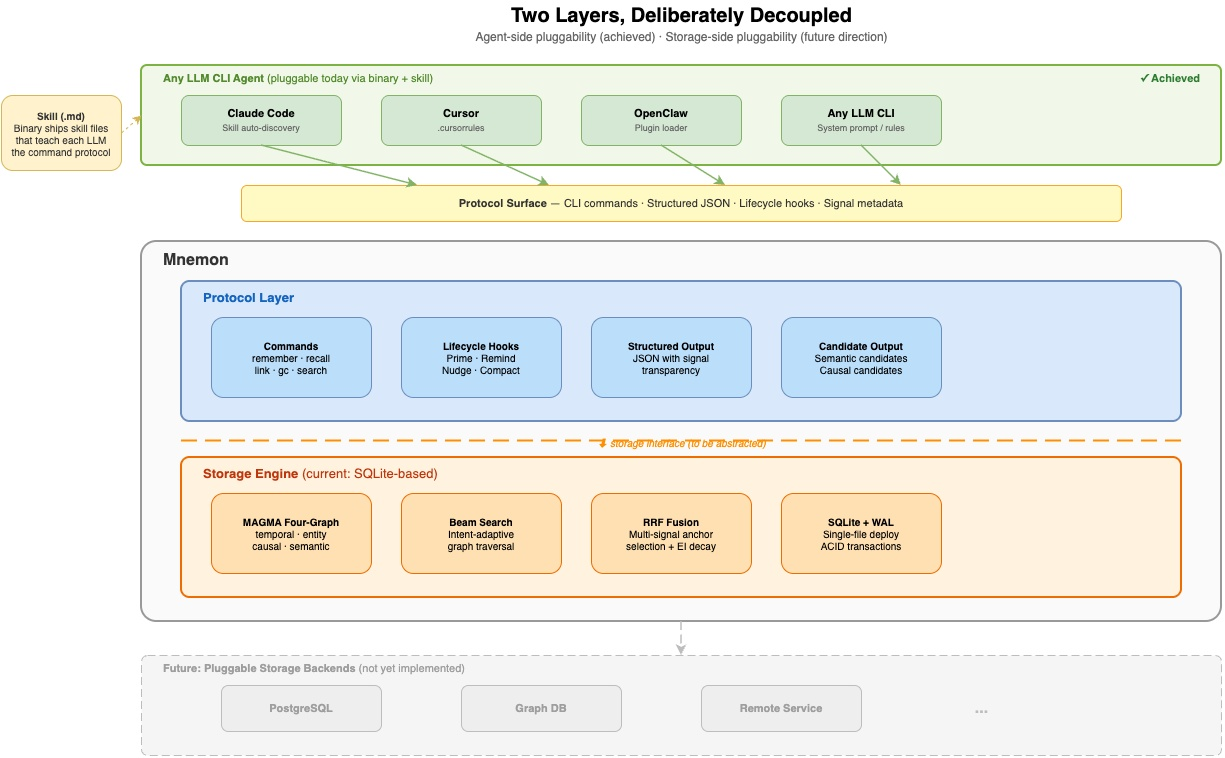
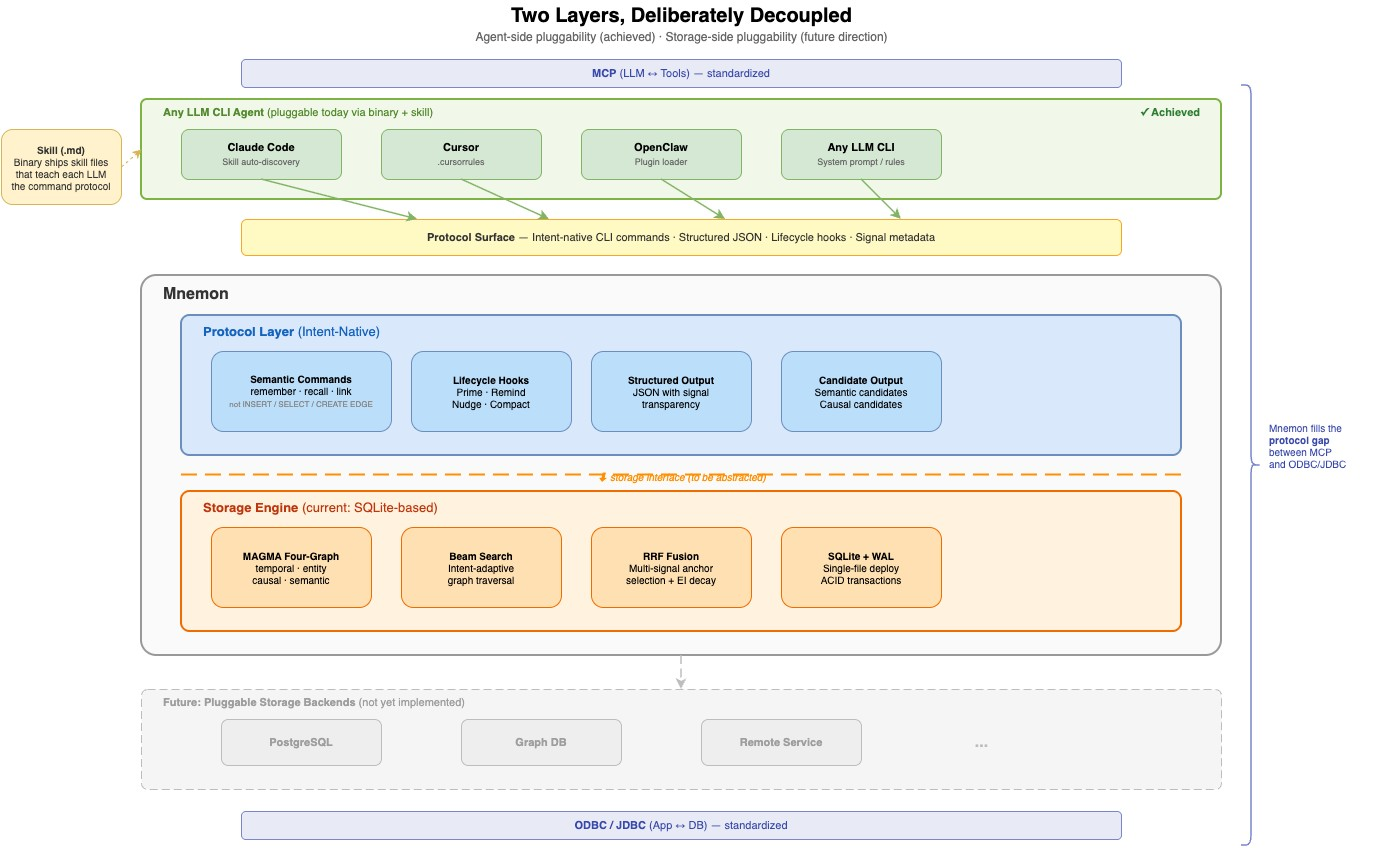
docs: replace memcp with Claude Code Memory in comparisons, update architecture diagram
- §1.5: replace MemCP column with Claude Code Memory (CLAUDE.md file
  injection), add Retrieval dimension row
- §2.1: add File Injection pattern row for Claude Code CLAUDE.md
  (keep MemCP as MCP Server representative)
- §4 & §8: replace memcp with CC Mem in protocol gap analysis and
  ASCII diagrams
- Diagram: add MCP/ODBC protocol stack context, intent-native
  annotations, protocol gap brace; export updated JPG

diff --git a/docs/design/01-vision.md b/docs/design/01-vision.md
@@ -38,11 +38,12 @@ It is not a library or plugin embedded within an agent framework, but a standalo
 
 ## 1.5 Comparison with Alternatives
 
-| Dimension | Mem0 | Letta/MemGPT | MemCP | **Mnemon** |
-|-----------|------|-------------|-------|-----------|
-| **Architecture** | SDK embedded in call chain | Within agent framework | MCP Plugin | Standalone Binary |
-| **LLM Role** | Internal extraction function | Agent self-managed | Sub-agent orchestration | External supervisor |
-| **Graph** | Neo4j single relation edges | None | MAGMA four-graph | MAGMA four-graph |
+| Dimension | Mem0 | Letta/MemGPT | Claude Code Memory | **Mnemon** |
+|-----------|------|-------------|-------------------|-----------|
+| **Architecture** | SDK embedded in call chain | Within agent framework | CLAUDE.md file injection | Standalone Binary |
+| **LLM Role** | Internal extraction function | Agent self-managed | None (static file load) | External supervisor |
+| **Graph** | Neo4j single relation edges | None | None | MAGMA four-graph |
+| **Retrieval** | Vector similarity | Vector similarity | Full-text loaded into context | Intent-adaptive multi-signal fusion |
 | **External Deps** | PostgreSQL + LLM API | PostgreSQL + LLM API | None | None |
-| **LLM Swappable** | Tied to OpenAI | Tied to framework | Tied to Claude Code | Any LLM CLI |
-| **Memory Lifecycle** | Rules engine | No built-in decay | 3-zone (Active/Archive/Purge) | EI decay + GC + immunity |
+| **LLM Swappable** | Tied to OpenAI | Tied to framework | Claude Code only | Any LLM CLI |
+| **Memory Lifecycle** | Rules engine | No built-in decay | Manual / auto-append | EI decay + GC + immunity |

diff --git a/docs/zh/design/01-vision.md b/docs/zh/design/01-vision.md
@@ -38,11 +38,12 @@ Mnemon 的目标是：**让 LLM 像有经验的助手一样，记住你的决策
 
 ### 1.5 方案对比
 
-| 维度 | Mem0 | Letta/MemGPT | MemCP | **Mnemon** |
-|------|------|-------------|-------|-----------|
-| **架构** | SDK 嵌入调用链 | Agent 框架内 | MCP Plugin | 独立 Binary |
-| **LLM 角色** | 内部提取函数 | Agent 自主管理 | Sub-agent 编排 | 外部监督者 |
-| **图谱** | Neo4j 单一关系边 | 无 | MAGMA 四图 | MAGMA 四图 |
+| 维度 | Mem0 | Letta/MemGPT | Claude Code Memory | **Mnemon** |
+|------|------|-------------|-------------------|-----------|
+| **架构** | SDK 嵌入调用链 | Agent 框架内 | CLAUDE.md 文件注入 | 独立 Binary |
+| **LLM 角色** | 内部提取函数 | Agent 自主管理 | 无（静态文件加载） | 外部监督者 |
+| **图谱** | Neo4j 单一关系边 | 无 | 无 | MAGMA 四图 |
+| **检索** | 向量相似度 | 向量相似度 | 全文加载到上下文 | 意图自适应多信号融合 |
 | **外部依赖** | PostgreSQL + LLM API | PostgreSQL + LLM API | 零 | 零 |
-| **LLM 可替换** | 绑定 OpenAI | 绑定框架 | 绑定 Claude Code | 任意 LLM CLI |
-| **记忆生命周期** | 规则引擎 | 无内置衰减 | 3-区 (Active/Archive/Purge) | EI 衰减 + GC + 免疫 |
+| **LLM 可替换** | 绑定 OpenAI | 绑定框架 | 仅 Claude Code | 任意 LLM CLI |
+| **记忆生命周期** | 规则引擎 | 无内置衰减 | 手动 / 自动追加 | EI 衰减 + GC + 免疫 |

diff --git a/docs/design/04-graph-model.md b/docs/design/04-graph-model.md
@@ -256,7 +256,7 @@ The existing protocol stack has a gap between LLMs and databases:
 
 MCP standardizes how LLMs discover and invoke tools. ODBC/JDBC standardizes how applications access databases. But **how LLMs interact with databases using memory semantics** — this layer has no protocol.
 
-Every project reinvents this layer independently: Mem0 builds its own, OpenViking builds its own, memcp builds its own. Each conflates two fundamentally different problems:
+Every project reinvents this layer independently: Mem0 builds its own, OpenViking builds its own, Claude Code's CLAUDE.md builds its own (by bypassing the problem entirely with file injection). Each conflates two fundamentally different problems:
 
 1. **LLM-DB interaction protocol** (how to read and write) — an LLM problem
 2. **DB engine optimization** (how to store and query efficiently) — a database problem
@@ -266,10 +266,10 @@ Every project reinvents this layer independently: Mem0 builds its own, OpenVikin
 Current agent memory systems are monoliths that couple protocol and storage:
 
 ```
-Mem0       = protocol + custom storage engine
-memcp      = protocol + SQLite graph engine
-OpenViking = protocol + virtual filesystem engine
-MemGPT     = protocol + tiered memory manager
+Mem0             = protocol + custom storage engine
+Claude Code Mem  = no protocol (file injection into context window)
+OpenViking       = protocol + virtual filesystem engine
+MemGPT           = protocol + tiered memory manager
 ```
 
 This is equivalent to every web application inventing its own HTTP. The result: no interoperability, no backend portability, no leverage of the existing database ecosystem.
@@ -334,8 +334,8 @@ This reframes mnemon's position in the ecosystem:
          (product approach)              (platform approach)
 
 Mem0  ──┐                         ┌── Neo4j adapter
-memcp ──┤ Each reinvents its      │── TigerGraph adapter
-Viking──┤ own DB engine           │── Milvus adapter
+CC Mem──┤ Each reinvents its      │── TigerGraph adapter
+Viking──┤ own storage layer       │── Milvus adapter
 MemGPT──┘                         │── SQLite adapter (mnemon current)
                                    └── PostgreSQL adapter
 

diff --git a/docs/design/08-decisions.md b/docs/design/08-decisions.md
@@ -85,8 +85,8 @@ When both boundaries are decoupled, Mnemon becomes a true memory gateway — any
          (product approach)              (platform approach)
 
 Mem0  ──┐                         ┌── Neo4j adapter
-memcp ──┤ Each reinvents its      │── TigerGraph adapter
-Viking──┤ own storage engine      │── Milvus adapter
+CC Mem──┤ Each reinvents its      │── TigerGraph adapter
+Viking──┤ own storage layer       │── Milvus adapter
 MemGPT──┘                         │── SQLite adapter (current)
                                    └── PostgreSQL adapter
 

diff --git a/docs/zh/design/08-decisions.md b/docs/zh/design/08-decisions.md
@@ -83,8 +83,8 @@ SQLite        INSERT row      INSERT edge table     multi-signal query
          （产品思路）                    （平台思路）
 
 Mem0  ──┐                         ┌── Neo4j adapter
-memcp ──┤ 每个项目各自             │── TigerGraph adapter
-Viking──┤ 重造存储引擎             │── Milvus adapter
+CC Mem──┤ 每个项目各自             │── TigerGraph adapter
+Viking──┤ 重造存储层               │── Milvus adapter
 MemGPT──┘                         │── SQLite adapter（当前）
                                    └── PostgreSQL adapter
 

diff --git a/docs/DESIGN.md b/docs/DESIGN.md
@@ -12,7 +12,7 @@ Mnemon is a persistent memory system designed for LLM agents. It adopts the **LL
 
 ### [1. Vision & Problem](design/01-vision.md)
 
-Why Mnemon exists — the amnesia problem in LLM agents, structural bottlenecks of traditional approaches, and a comparison with existing solutions (Mem0, MemGPT, memcp).
+Why Mnemon exists — the amnesia problem in LLM agents, structural bottlenecks of traditional approaches, and a comparison with existing solutions (Mem0, MemGPT, Claude Code Memory).
 
 ### [2. Design Philosophy](design/02-philosophy.md)
 

diff --git a/docs/zh/DESIGN.md b/docs/zh/DESIGN.md
@@ -12,7 +12,7 @@ Mnemon 是一个为 LLM agent 设计的持久化记忆系统。它采用 **LLM-S
 
 ### [1. 愿景与问题](design/01-vision.md)
 
-Mnemon 存在的原因 — LLM agent 的失忆问题、传统方案的结构性瓶颈，以及与现有方案（Mem0、MemGPT、memcp）的对比。
+Mnemon 存在的原因 — LLM agent 的失忆问题、传统方案的结构性瓶颈，以及与现有方案（Mem0、MemGPT、Claude Code Memory）的对比。
 
 ### [2. 设计哲学](design/02-philosophy.md)
 

diff --git a/docs/design/02-philosophy.md b/docs/design/02-philosophy.md
@@ -13,6 +13,7 @@ Mnemon adopts the **LLM-Supervised** pattern:
 | Pattern | Where is the LLM | What does the LLM do | Representative |
 |---------|------------------|---------------------|----------------|
 | **LLM-Embedded** | Inside the pipeline | Executor (extraction, classification, reasoning) | Mem0, MAGMA |
+| **File Injection** | Reads file at session start | None — static file loaded into context window | Claude Code CLAUDE.md |
 | **MCP Server** | Tool provider via MCP protocol | Exposes memory operations as MCP tools for the host LLM | MemCP |
 | **LLM-Supervised** | Outside the pipeline | Supervisor (reviews candidates, makes judgments, decides trade-offs) | Mnemon |
 

diff --git a/docs/zh/design/02-philosophy.md b/docs/zh/design/02-philosophy.md
@@ -13,6 +13,7 @@ Mnemon 采用 **LLM-Supervised** 模式：
 | 模式 | LLM 在哪 | LLM 做什么 | 代表 |
 |------|---------|-----------|------|
 | **LLM-Embedded** | 管线内部 | 执行者（提取、分类、推理） | Mem0, MAGMA |
+| **File Injection** | 会话启动时读取文件 | 无——静态文件加载到 context window | Claude Code CLAUDE.md |
 | **MCP Server** | 通过 MCP 协议提供工具 | 将记忆操作暴露为 MCP 工具，供宿主 LLM 调用 | MemCP |
 | **LLM-Supervised** | 管线外部 | 监督者（审查候选、做判断、决策取舍） | Mnemon |
 